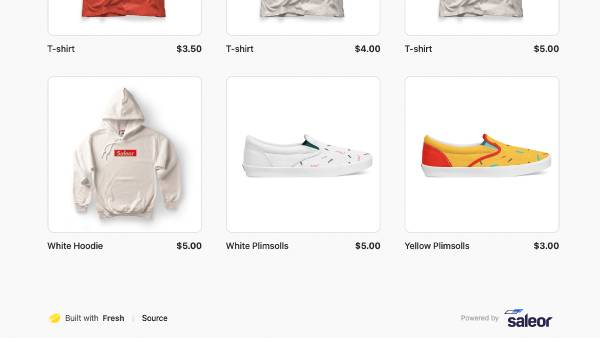
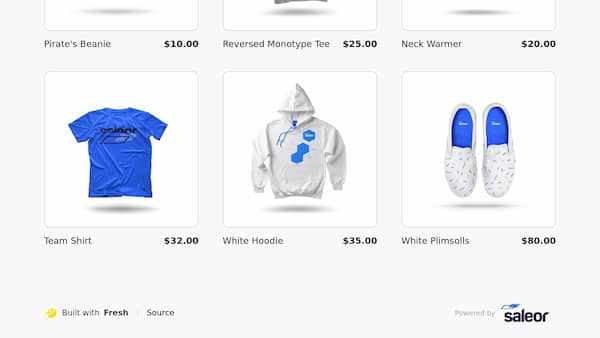
images

diff --git a/www/routes/index.tsx b/www/routes/index.tsx
@@ -291,9 +291,9 @@ function Showcase({ items }: { items: Project[] }) {
           Add yours!
         </a>
       </p>
-      <div class="pt-8 gap-20 md:gap-4 flex-col md:flex-row flex justify-between items-center">
+      <div class="pt-8 gap-20 md:gap-4 grid grid-cols(1 sm:2 md:3)">
         {items.map((project) => (
-          <div class="w-full max-w-sm group">
+          <div class="w-full max-w-sm mx-auto group">
             <a href={project.link} tabIndex={-1}>
               <img
                 loading="lazy"

diff --git a/www/utils/screenshot.ts b/www/utils/screenshot.ts
@@ -13,6 +13,7 @@ const browser = await puppeteer.launch({
 });
 const page = await browser.newPage();
 await page.goto(url, { waitUntil: "networkidle2" });
+await page.evaluate("window.scroll(0, 100000)");
 await page.screenshot({ path: `./www/static/showcase/${id}.png` });
 
 await browser.close();
